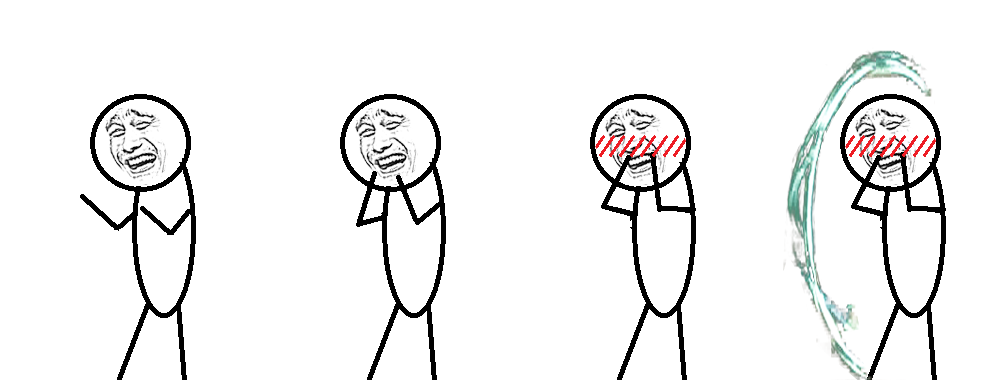
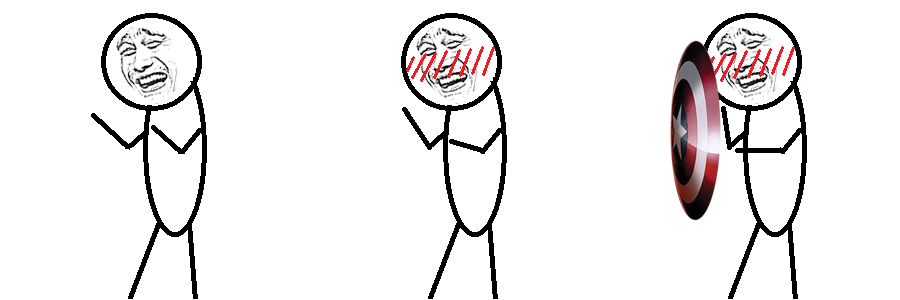
Add skill animation. Modify routeFunc to Vec2(float dt). Improve experience of controlling.

diff --git a/Classes/TestScene.cpp b/Classes/TestScene.cpp
@@ -53,18 +53,29 @@ bool TestScene::init() {
   auto texture = Director::getInstance()->getTextureCache()->textureForKey("animations/fighter_walk.png");
   auto frame0 = SpriteFrame::createWithTexture(texture, CC_RECT_PIXELS_TO_POINTS(Rect(0, 0, 300, 300)));
 
+  AttackInfo punch_info = AttackInfo("attacks/punch.json");
+  punch_info.routeFunc = [](float dt) {
+    return Vec2(-0.5825f * dt, 0);
+  };
+  AttackInfo kick_info = AttackInfo("attacks/kick.json");
+  kick_info.routeFunc = [](float dt) {
+    return Vec2(-3.2f * dt, 0);
+  };
+
   auto fighter = Fighter::create(1000, 1000);
   fighter->setSkills("skills/fighter_skill.json");
   fighter->initWithSpriteFrame(frame0);
   fighter->idle_animation = AnimationCache::getInstance()->getAnimation("fighter_idle");
   fighter->move_animation = AnimationCache::getInstance()->getAnimation("fighter_move");
   fighter->jump_animation = AnimationCache::getInstance()->getAnimation("fighter_jump");
+  fighter->stun_animation = AnimationCache::getInstance()->getAnimation("fighter_stun");
   fighter->attack_animations[0] = AnimationCache::getInstance()->getAnimation("fighter_punch");
   fighter->attack_animations[1] = AnimationCache::getInstance()->getAnimation("fighter_kick");
+  fighter->attack_animations[2] = AnimationCache::getInstance()->getAnimation("fighter_skill");
   auto bounding = fighter->getBoundingBox();
   fighter->setDFBoundingBox(Rect(0, 0, 0.37975 * bounding.size.width, bounding.size.height));
-  fighter->punch_info = AttackInfo("attacks/punch.json");
-  fighter->kick_info = AttackInfo("attacks/kick.json");
+  fighter->punch_info = punch_info;
+  fighter->kick_info = kick_info;
   battle_system->setFighter(fighter, 0);
   fighter->setPosition(Vec2(origin.x + visibleSize.width / 2, origin.y + visibleSize.height / 2));
 
@@ -74,6 +85,7 @@ bool TestScene::init() {
   fighter->idle_animation = AnimationCache::getInstance()->getAnimation("fighter_idle");
   fighter->move_animation = AnimationCache::getInstance()->getAnimation("fighter_move");
   fighter->jump_animation = AnimationCache::getInstance()->getAnimation("fighter_jump");
+  fighter->stun_animation = AnimationCache::getInstance()->getAnimation("fighter_stun");
   fighter->attack_animations[0] = AnimationCache::getInstance()->getAnimation("fighter_punch");
   fighter->attack_animations[1] = AnimationCache::getInstance()->getAnimation("fighter_kick");
   bounding = fighter->getBoundingBox();

diff --git a/Classes/Attack.cpp b/Classes/Attack.cpp
@@ -38,15 +38,15 @@ void Attack::setOwner(Fighter * owner) {
   this->setPosition(Vec2(atk_bounding_offset.x - owner_bounding.size.width / 2 + atk_sp_box.size.width / 2, atk_bounding_offset.y - owner_bounding.size.height / 2 + atk_sp_box.size.height / 2));
   this->DFBoudingBox.origin = owner_bounding.origin;
   this->DFBoudingBox.origin += atk_bounding_offset;
-  this->real_x_speed = owner->dir ? -x_speed * owner_bounding.size.width : x_speed * owner_bounding.size.width;
-  this->real_y_speed = owner_bounding.size.height;
+  this->real_width_scale = owner->dir ? -owner_bounding.size.width : owner_bounding.size.width;
+  this->real_height_scale = owner_bounding.size.height;
 }
 
 void Attack::initWithAttackInfo(const AttackInfo & info) {
   this->damage = info.damage;
   this->lifetime = info.lifetime;
   this->stuntime = info.stuntime;
-  this->x_speed = info.x_speed;
+  //this->x_speed = info.x_speed;
   this->routeFunc = info.routeFunc;
   this->initial_pos = info.initial_pos;
   this->size = info.size;
@@ -64,15 +64,13 @@ void Attack::hit() {
 void Attack::update(float dt) {
   BaseSprite::update(dt);
   if (is_destroy) return;
-  if (lifetime < 0) {
+  if (total_dt > lifetime) {
     this->destroy();
     return;
   }
-  lifetime -= dt;
+  total_dt += dt;
   auto now_pos = getPosition();
-  auto x = real_x_speed * dt;
-  dx += x;
-  dy = routeFunc(dx) * real_y_speed;
-
-  this->setPosition(now_pos + Vec2(x, dy));
+  auto delta_pos = routeFunc(dt);
+  auto real_delta_pos = Vec2(delta_pos.x * real_width_scale, delta_pos.y * real_height_scale);
+  this->setPosition(now_pos + real_delta_pos);
 }

diff --git a/Classes/AppDelegate.cpp b/Classes/AppDelegate.cpp
@@ -111,11 +111,29 @@ bool AppDelegate::applicationDidFinishLaunching() {
 
   // load kick resource
   texture = director->getTextureCache()->addImage("animations/fighter_jump.png");
-  // kick animation
-  for (int i = 0; i < 12; ++i) {
+  // jump animation
+  for (int i = 0; i < 11; ++i) {
     frames.pushBack(SpriteFrame::createWithTexture(texture, CC_RECT_PIXELS_TO_POINTS(Rect(i * 300, 0, 300, 300))));
   }
   anicache->addAnimation(Animation::createWithSpriteFrames(frames, 0.04f), "fighter_jump");
+  frames.clear();
+
+  // load kick resource
+  texture = director->getTextureCache()->addImage("animations/fighter_stun.png");
+  // stun animation
+  for (int i = 0; i < 7; ++i) {
+    frames.pushBack(SpriteFrame::createWithTexture(texture, CC_RECT_PIXELS_TO_POINTS(Rect(i * 300, 0, 300, 300))));
+  }
+  anicache->addAnimation(Animation::createWithSpriteFrames(frames, 0.06f), "fighter_stun");
+  frames.clear();
+
+  // load kick resource
+  texture = director->getTextureCache()->addImage("animations/fighter_skill.png");
+  // skill animation
+  for (int i = 0; i < 8; ++i) {
+    frames.pushBack(SpriteFrame::createWithTexture(texture, CC_RECT_PIXELS_TO_POINTS(Rect(i * 300, 0, 300, 300))));
+  }
+  anicache->addAnimation(Animation::createWithSpriteFrames(frames, 0.06f), "fighter_skill");
   frames.clear();
 
   // run

diff --git a/Classes/AttackInfo.cpp b/Classes/AttackInfo.cpp
@@ -19,12 +19,12 @@ AttackInfo::AttackInfo(const std::string & filepath) {
   damage = json_doc["damage"].GetInt();
   lifetime = json_doc["lifetime"].GetDouble();
   stuntime = json_doc["stuntime"].GetDouble();
-  x_speed = json_doc["x_speed"].GetDouble();
+  //x_speed = json_doc["x_speed"].GetDouble();
   initial_pos = Vec2(json_doc["initial_pos"][0].GetDouble(), json_doc["initial_pos"][1].GetDouble());
   size = Vec2(json_doc["size"][0].GetDouble(), json_doc["size"][1].GetDouble());
 
-  routeFunc = [](float x) { return 0.0f; };
+  routeFunc = [](float dt) { return Vec2(); };
 }
 
-AttackInfo::AttackInfo(int damage, float lifetime, float stuntime, float x_speed, Vec2 initial_pos, std::function<float(float)> routeFunc)
-  : damage(damage), lifetime(lifetime), stuntime(stuntime), x_speed(x_speed), routeFunc(routeFunc), initial_pos(initial_pos) {}
+AttackInfo::AttackInfo(int damage, float lifetime, float stuntime, float x_speed, Vec2 initial_pos, std::function<Vec2(float)> routeFunc)
+  : damage(damage), lifetime(lifetime), stuntime(stuntime), /*x_speed(x_speed),*/ routeFunc(routeFunc), initial_pos(initial_pos) {}

diff --git a/Classes/StartMenu.cpp b/Classes/StartMenu.cpp
@@ -1,6 +1,6 @@
 #include "StartMenu.h"  
 #include "RotateMenu.h"  
-#include "GameScene.h"
+#include "TestScene.h"
 #include "AboutScene.h"
 USING_NS_CC;
 typedef struct SceneList {
@@ -107,7 +107,7 @@ void StartMenu::menuCloseCallback(Ref* pSender) {
 }
 
 void StartMenu::menuItem1Callback(cocos2d::Ref* pSender) {
-  Director::getInstance()->replaceScene(CCTransitionFade::create(0.5, GameScene::createScene()));
+  Director::getInstance()->replaceScene(CCTransitionFade::create(0.5, TestScene::createScene()));
 }
 void StartMenu::menuItem2Callback(cocos2d::Ref* pSender) {
   Director::getInstance()->replaceScene(CCTransitionFade::create(0.5, AboutScene::createScene()));

diff --git a/Classes/AttackInfo.h b/Classes/AttackInfo.h
@@ -8,12 +8,12 @@ USING_NS_CC;
 struct AttackInfo {
 public:
   int damage;
-  float lifetime, stuntime, x_speed;
+  float lifetime, stuntime/*, x_speed*/;
   Vec2 initial_pos, size;
-  std::function<float(float)> routeFunc;
+  std::function<Vec2(float)> routeFunc;
   AttackInfo();
   AttackInfo(const std::string& filepath);
-  AttackInfo(int damage, float lifetime, float stuntime, float x_speed, Vec2 initial_pos, std::function<float(float)> routeFunc);
+  AttackInfo(int damage, float lifetime, float stuntime, float x_speed, Vec2 initial_pos, std::function<Vec2(float)> routeFunc);
 };
 
 #endif // !__ATTACK_INFO_H__

diff --git a/Classes/BattleSystem.h b/Classes/BattleSystem.h
@@ -52,6 +52,7 @@ public:
   void pressKey(EventKeyboard::KeyCode code);
   void releaseKey(EventKeyboard::KeyCode code);
   void bindButtonToFighter(const std::map<EventKeyboard::KeyCode, std::pair<int, VirtualKey>> &keymap);
+
 private:
 };
 

diff --git a/Classes/Fighter.h b/Classes/Fighter.h
@@ -14,7 +14,7 @@
 
 USING_NS_CC;
 
-constexpr float G = 200.0f;
+constexpr float G = 3200.0f;
 
 class Fighter : public BaseSprite {
 public:
